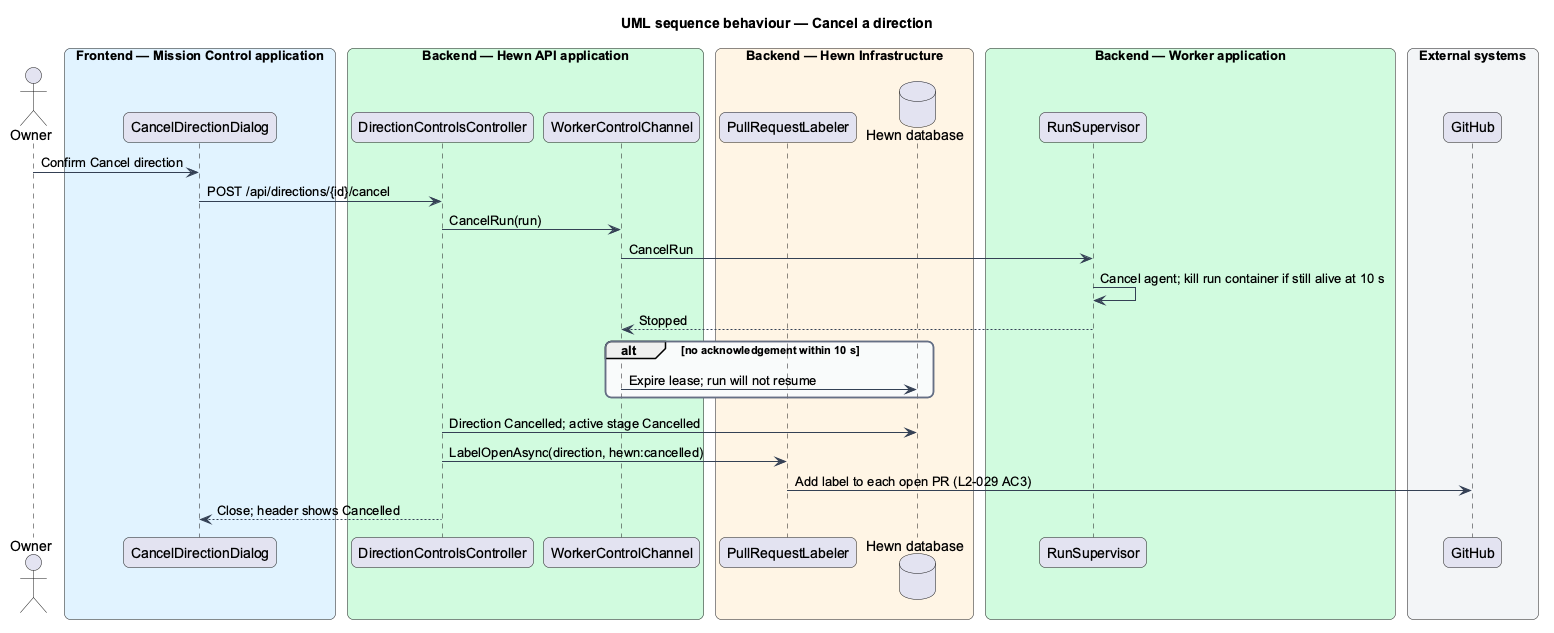
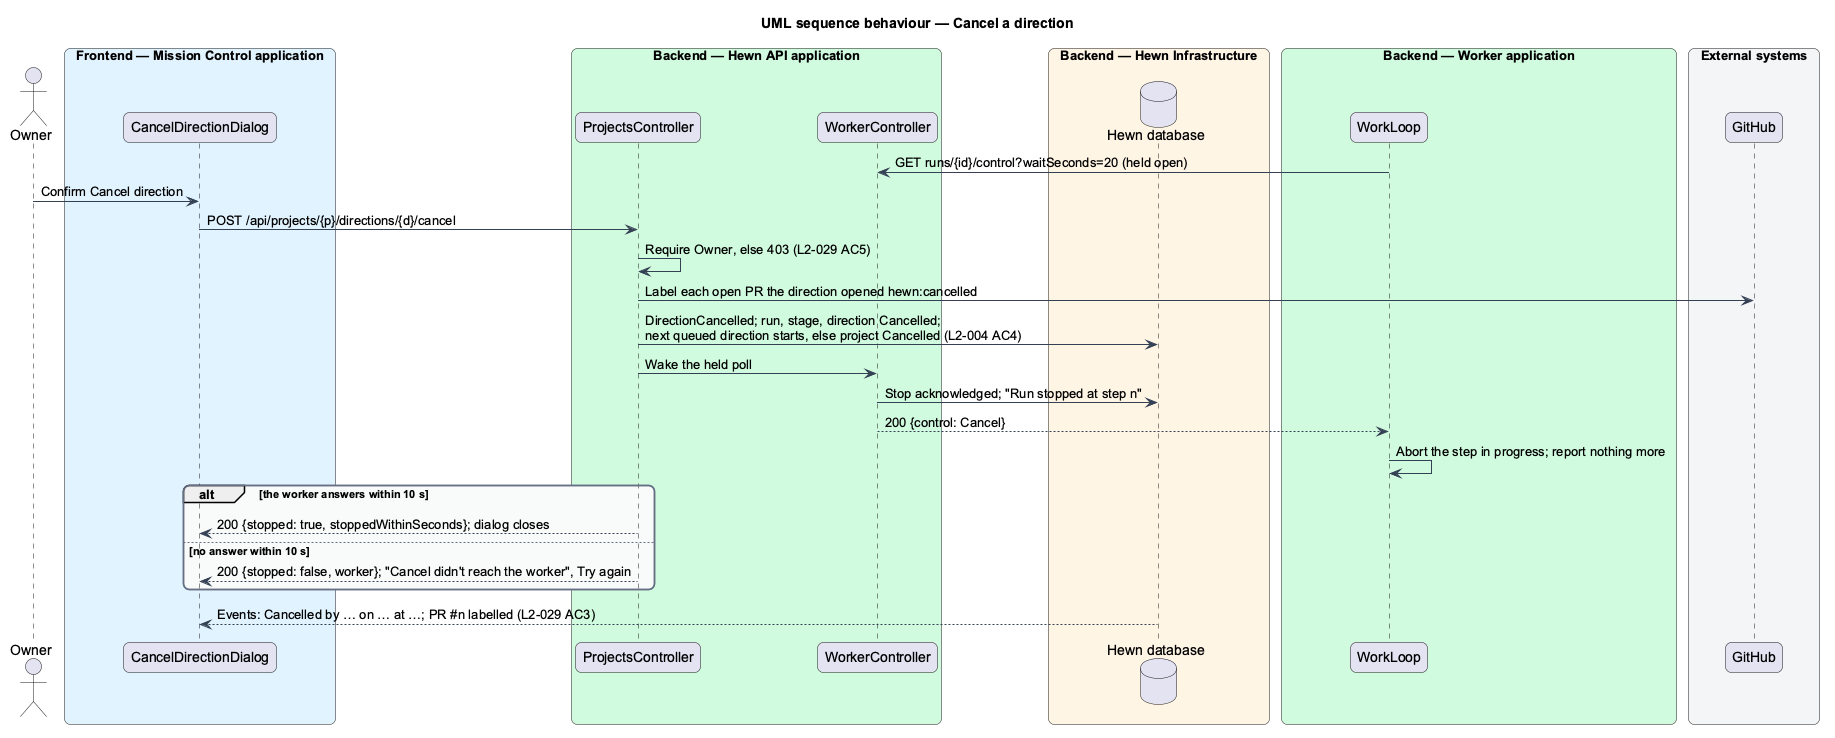
Record Cancel on a held control poll in the designs, ADR 0012 and the changelog
Traces to: L2-029, L2-004

diff --git a/docs/adr/0012-cancel-reaches-the-worker-on-a-held-control-poll.md b/docs/adr/0012-cancel-reaches-the-worker-on-a-held-control-poll.md
@@ -1,0 +1,56 @@
+# 0012. Cancel reaches the worker on a held control poll
+
+- **Status:** Accepted
+- **Date:** 2026-11-09
+- **Requirements:** L2-029, L2-004
+
+## Context
+
+L2-029 AC3 asks that, when an Owner presses Cancel on a running or paused direction and confirms, the active run
+stops within 10 seconds, the direction is Cancelled, and open pull requests are left open and labelled
+`hewn:cancelled`. L2-004 AC4 asks that a queued direction starts when the active one is Complete or Cancelled. The
+pause-resume-cancel-stop design sends `CancelRun` over a `WorkerControlChannel` on the worker's outbound SignalR
+connection. Workers speak HTTP and poll (ADR 0011 left the channel unbuilt). A step can run for minutes, so neither
+the heartbeat (every 10 seconds) nor the checkpoint can carry a cancel in time on its own.
+
+## Decision
+
+- **The worker holds a control poll open while its run executes.** `GET /api/worker/runs/{id}/control?workerId&epoch&waitSeconds`
+  waits up to `waitSeconds` (at most 30; the worker asks for 20) and answers 200 `{control: "Cancel"}` the moment the
+  run is cancelled, or 204 to poll again. The connection is outbound from the worker, so a Local worker still needs
+  no inbound port (L2-027 AC3). On Cancel the worker aborts the step in progress and reports nothing more.
+- **Cancel commits first, then waits.** `POST /api/projects/{projectId}/directions/{directionId}/cancel` (Owner
+  policy) appends `DirectionCancelled`, writes "Cancel requested by {login}", labels the direction's open pull
+  requests, and cancels the run (its lease stops fencing, so every write the worker tries is refused), its running or
+  paused stage, and the direction, then starts the next queued direction or sets the project Cancelled, in one save.
+  It then wakes the held poll and waits up to 10 seconds (`Hewn:Control:StopDeadlineSeconds`) for the worker to hear.
+- **The worker hearing it is the stop.** The poll that answers Cancel records `StopAcknowledgedAt`, the seconds it
+  took (`stoppedWithinSeconds`) and "Run stopped at step {n}". Cancel answers `{status, stopped, stoppedWithinSeconds,
+  worker}`; `stopped: false` names the worker that did not answer. The direction is Cancelled either way; pressing
+  Cancel again only waits for the worker again.
+- **Pull requests come from the mutation ledger.** Every `open_pull_request` the direction's runs made is read
+  back; each that is not merged gets the `hewn:cancelled` label through the GitHub App
+  (`POST /repos/{owner}/{name}/issues/{n}/labels`) and a `gh pr edit {n} --add-label hewn:cancelled` line in the
+  run log. Merged work stays merged.
+- **Signals are in process.** `RunControlSignals` wakes a held poll and the waiting Cancel; the database records
+  the outcome, so a poll or a retry that misses a signal still finds the run Cancelled.
+
+## Alternatives considered
+
+- **Build the SignalR `WorkerControlChannel`**: the design's target, but it adds a SignalR client and a delivery and
+  acknowledgement protocol to the worker for one message, where a held HTTP request gives the same latency over the
+  connection the worker already makes.
+- **Answer Cancel on the heartbeat or the checkpoint**: the heartbeat is 10 seconds apart and a checkpoint can be
+  minutes away, so neither meets the 10-second limit; the heartbeat still sees 409 and stops the run as a backstop.
+- **Wait for the worker before changing state**: a worker that never answers would leave the direction Running
+  and the next direction waiting. Committing first means Cancel always takes effect and the worker's writes are
+  refused at once; the wait only reports whether the worker heard.
+- **Expire the lease when the worker does not answer**: the run is already Cancelled and fenced, so there is nothing
+  for the lease to protect; the failed dialog tells the Owner the lease expires and the run won't resume.
+
+## Consequences
+
+- A worker holds one extra request open during a run. Signals live in the API process; with several API instances
+  a poll held by another instance hears the cancel when it ends (at most 20 seconds) and re-reads the database.
+- Stop all workers (journey 8) can answer `Halt` on the same poll.
+- Pause keeps its checkpoint answer (ADR 0011).

diff --git a/docs/detailed-designs/pipeline/pause-resume-cancel-stop/README.md b/docs/detailed-designs/pipeline/pause-resume-cancel-stop/README.md
@@ -67,7 +67,7 @@ Pause waits for the current step to finish and checkpoint (L2-029 AC1): the chec
 
 ### Behaviour — cancel a direction
 
-The run stops within 10 seconds, the direction is Cancelled, and open pull requests stay open with `hewn:cancelled` (L2-029 AC3).
+The run stops within 10 seconds, the direction is Cancelled, and open pull requests stay open with `hewn:cancelled` (L2-029 AC3). The worker hears the cancel on its held control poll, and the next queued direction starts (L2-004 AC4).
 
 ![Sequence diagram: cancel a direction](diagrams/sequence-cancel.png)
 
@@ -101,4 +101,34 @@ Journey 6 built Pause and Resume (L2-029 AC1, AC2, AC5). Cancel and Stop all com
   ("Pausing…", `aria-busy`), so no new mock was needed. `DirectionControlsComponent` is part of the project page's
   header rather than a component of its own. Cancel is not shown until journey 7 builds it.
 - **Not built yet:** audit entries for Pause and Resume (the audit log is journey 32).
+
+## Decisions made while building Cancel
+
+Journey 7 built Cancel (L2-029 AC3, AC5, L2-004 AC4).
+
+- **Cancel reaches the worker on a held control poll, not SignalR** ([ADR 0012](../../../adr/0012-cancel-reaches-the-worker-on-a-held-control-poll.md)).
+  While a run executes the worker holds `GET /api/worker/runs/{id}/control` open for 20 seconds at a time; it
+  answers `{control: "Cancel"}` the moment the run is cancelled, and the worker aborts the step in progress.
+  `WorkerControlChannel` and `RunSupervisor` remain unbuilt; `WorkLoop` plays the supervisor's part.
+- **Cancel commits first, then waits up to 10 seconds** for the worker to hear. In one save:
+  - `DirectionCancelled` and "Cancel requested by {login}" in the run log;
+  - the run, its running or paused stage, and the direction are Cancelled;
+  - the next queued direction starts, or the project shows Cancelled.
+  The run's lease stops fencing at once, so the worker's writes are refused even before it hears.
+- **The answer reports the stop:** `{directionId, status, stopped, stoppedWithinSeconds, worker}`. When the worker
+  does not answer in time, the dialog's failed state names it ("{worker} stopped answering…"), and Try again waits
+  again. The direction records `cancelledBy`, `cancelledAt`, `stoppedWithinSeconds` and `labelledPullRequests` for
+  the callout "Cancelled by {login} on {date} at {time}".
+- **`PullRequestLabeler` is part of the cancel handler.** It reads the pull requests the direction's runs opened
+  from the mutation ledger, labels each unmerged one through the new `IGitHubRepositories.AddLabelAsync`, and logs
+  `gh pr edit {n} --add-label hewn:cancelled`. A label GitHub refuses is logged as a warning, and the cancel still
+  completes.
+- **Routes sit under the project:** `POST .../directions/{id}/cancel` on `ProjectsController`. Refusals: 403 for
+  Viewers, 409 `not_active` for a Complete direction, 404 for another project's direction. Cancel on a direction
+  already Cancelled answers 200 and only waits for the worker again.
+- **The header** shows Cancel beside Pause or Resume on a queued, running or paused direction. The dialog follows
+  the mocks' default, busy and failed states, except its text says "Merged work stays merged" because the read
+  model does not count merged increments yet. A cancelled direction's stage stays selected, so its log shows how
+  it ended.
+- **Not built yet:** audit entries for Cancel (the audit log is journey 32).
 

diff --git a/docs/detailed-designs/agent-runtime/worker-loop/README.md b/docs/detailed-designs/agent-runtime/worker-loop/README.md
@@ -121,6 +121,10 @@ Journey 1, part 2 built the loop, leases and fencing that L2-004 needs.
 - **The checkpoint answers with a verdict** (journey 6): `{verdict: "Continue" | "Pause"}`. On `Pause` the run has
   been paused at this checkpoint and its lease released; the worker ends the run without another step or a result
   ([ADR 0011](../../../adr/0011-pause-takes-effect-at-the-next-checkpoint.md)).
+- **The control poll (journey 7).** While a run executes, the worker also holds
+  `GET /api/worker/runs/{id}/control?workerId&epoch&waitSeconds=20` open. It answers 204 to poll again, or
+  `{control: "Cancel"}` the moment an Owner cancels the direction; the worker then aborts the step in progress and
+  reports no further step, checkpoint or result ([ADR 0012](../../../adr/0012-cancel-reaches-the-worker-on-a-held-control-poll.md)).
 - **Failure text is redacted** before it is stored (`SecretRedactor`).
 - **Not built yet:** the Workers page and issued tokens, `WorkerChanged`, the git sidecar, the container
   image, `CheckpointReconciler` and the `RunWriteLock`.

diff --git a/CHANGELOG.md b/CHANGELOG.md
@@ -14,6 +14,13 @@ and this project adheres to [Semantic Versioning](https://semver.org/spec/v2.0.0
 
 ### Added
 
+- Cancel a direction (journey 7, L2-029 AC3, AC5, L2-004 AC4): an Owner presses Cancel on a queued, running or
+  paused direction and confirms in a dialog. The direction, its run and its stage are Cancelled at once, the worker
+  hears it on its held control poll (`GET /api/worker/runs/{id}/control`) and stops within 10 seconds, open pull
+  requests stay open labelled `hewn:cancelled`, and the next queued direction starts
+  (`POST /api/projects/{id}/directions/{d}/cancel`, `DirectionCancelled`; ADR 0012). A worker that does not answer
+  is named in the dialog. Viewers see no control and get 403.
+
 - Pause and resume a direction (journey 6, L2-029 AC1, AC2, AC5, L2-050 AC3): an Owner presses Pause on a running
   direction; the step in progress finishes and checkpoints, then the direction is Paused ("Paused by … at …") and
   nothing new starts. Resume continues the same run from the next step, and no completed step runs twice

diff --git a/docs/adr/README.md b/docs/adr/README.md
@@ -15,3 +15,4 @@ Read the ADRs that cover an area before changing it. New ADRs take the next numb
 | [0009](0009-live-progress-from-the-worker.md) | Live progress: workers name steps and batch log lines, and Hewn keeps a copy of each decision | Accepted |
 | [0010](0010-spend-is-metered-per-call-against-a-configured-price-table.md) | Spend is metered per model call against a configured price table, and the budget stops the run after the call that reaches it | Accepted |
 | [0011](0011-pause-takes-effect-at-the-next-checkpoint.md) | Pause takes effect at the next checkpoint, answered on the checkpoint call | Accepted |
+| [0012](0012-cancel-reaches-the-worker-on-a-held-control-poll.md) | Cancel reaches the worker on a held control poll | Accepted |
